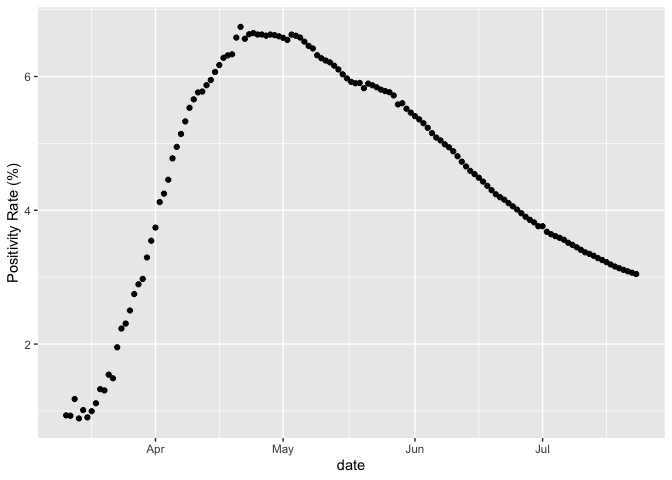
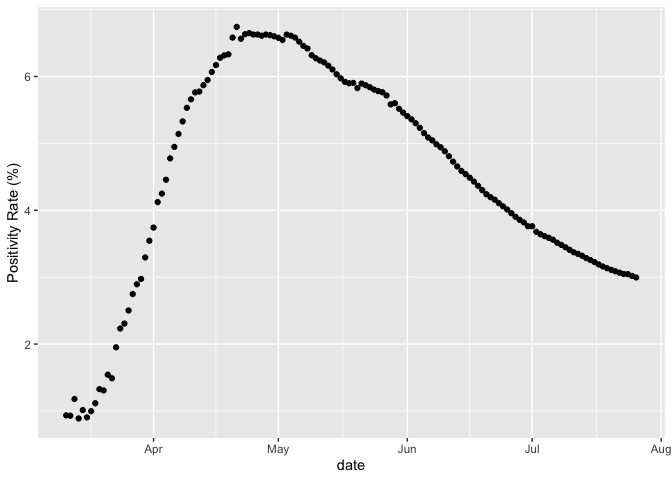
Updates

diff --git a/Writeup.md b/Writeup.md
@@ -17,7 +17,7 @@ direct indicator of testing capacity. The test positivity rate has been
 used as a measure of prevalence for outbreaks that occur in regions with
 limited or non-existent health surveillance.
 
-## Factors that Affect the TPR
+### Factors that Affect the TPR
 
 1.  Type of tests included in metric. Some regions are not transparent
     in the technologies used for COVID-19 tests, or aggregate PCR and
@@ -91,61 +91,61 @@ summary(national)
 ```
 
     ##                        prname         date               numconf      
-    ##  Canada                   :135   Min.   :2020-03-11   Min.   :   103  
-    ##  Alberta                  :  0   1st Qu.:2020-04-13   1st Qu.: 26354  
-    ##  British Columbia         :  0   Median :2020-05-17   Median : 76991  
-    ##  Manitoba                 :  0   Mean   :2020-05-17   Mean   : 64765  
-    ##  New Brunswick            :  0   3rd Qu.:2020-06-19   3rd Qu.:100813  
-    ##  Newfoundland and Labrador:  0   Max.   :2020-07-23   Max.   :112659  
+    ##  Canada                   :138   Min.   :2020-03-11   Min.   :   103  
+    ##  Alberta                  :  0   1st Qu.:2020-04-14   1st Qu.: 27376  
+    ##  British Columbia         :  0   Median :2020-05-18   Median : 78581  
+    ##  Manitoba                 :  0   Mean   :2020-05-18   Mean   : 65826  
+    ##  New Brunswick            :  0   3rd Qu.:2020-06-21   3rd Qu.:101551  
+    ##  Newfoundland and Labrador:  0   Max.   :2020-07-26   Max.   :113898  
     ##  (Other)                  :  0                                        
-    ##     numprob        numdeaths         numtotal        numtested      
-    ##  Min.   :  0.0   Min.   :   2.0   Min.   :   103   Min.   :  11023  
-    ##  1st Qu.: 11.0   1st Qu.: 841.5   1st Qu.: 26372   1st Qu.: 446229  
-    ##  Median : 11.0   Median :5782.0   Median : 77002   Median :1300729  
-    ##  Mean   : 22.2   Mean   :4859.2   Mean   : 64788   Mean   :1456374  
-    ##  3rd Qu.: 12.5   3rd Qu.:8378.0   3rd Qu.:100824   3rd Qu.:2361172  
-    ##  Max.   :833.0   Max.   :8874.0   Max.   :112672   Max.   :3697322  
-    ##                                                                     
-    ##    numrecover    percentrecover       ratetested       numtoday     
-    ##  Min.   :  230   Length:135         Min.   :  293   Min.   :   0.0  
-    ##  1st Qu.:26505   Class :character   1st Qu.:11871   1st Qu.: 363.5  
-    ##  Median :48892   Mode  :character   Median :34604   Median : 722.0  
-    ##  Mean   :46448                      Mean   :38744   Mean   : 834.0  
-    ##  3rd Qu.:65850                      3rd Qu.:62815   3rd Qu.:1252.5  
-    ##  Max.   :98519                      Max.   :98361   Max.   :2760.0  
-    ##  NA's   :28                                                         
-    ##   percentoday       ratetotal        ratedeaths     deathstoday    
-    ##  Min.   : 0.000   Min.   :  0.27   Min.   : 0.01   Min.   :  0.00  
-    ##  1st Qu.: 0.415   1st Qu.: 70.16   1st Qu.: 2.24   1st Qu.: 10.00  
-    ##  Median : 1.500   Median :204.85   Median :15.38   Median : 49.00  
-    ##  Mean   : 5.951   Mean   :172.36   Mean   :12.93   Mean   : 65.72  
-    ##  3rd Qu.: 5.635   3rd Qu.:268.23   3rd Qu.:22.29   3rd Qu.:114.50  
-    ##  Max.   :46.230   Max.   :299.75   Max.   :23.61   Max.   :222.00  
-    ##                                                                    
+    ##     numprob      numdeaths         numtotal        numtested      
+    ##  Min.   :  0   Min.   :   2.0   Min.   :   103   Min.   :  11023  
+    ##  1st Qu.: 11   1st Qu.: 929.8   1st Qu.: 27392   1st Qu.: 458171  
+    ##  Median : 11   Median :5877.0   Median : 78592   Median :1331709  
+    ##  Mean   : 22   Mean   :4946.7   Mean   : 65848   Mean   :1506463  
+    ##  3rd Qu.: 13   3rd Qu.:8434.5   3rd Qu.:101562   3rd Qu.:2436949  
+    ##  Max.   :833   Max.   :8890.0   Max.   :113911   Max.   :3801950  
+    ##                                                                   
+    ##    numrecover    percentrecover       ratetested        numtoday     
+    ##  Min.   :  230   Length:138         Min.   :   293   Min.   :   0.0  
+    ##  1st Qu.:27288   Class :character   1st Qu.: 12189   1st Qu.: 356.2  
+    ##  Median :50048   Mode  :character   Median : 35428   Median : 703.0  
+    ##  Mean   :47884                      Mean   : 40077   Mean   : 824.9  
+    ##  3rd Qu.:66931                      3rd Qu.: 64831   3rd Qu.:1245.8  
+    ##  Max.   :99355                      Max.   :101145   Max.   :2760.0  
+    ##  NA's   :28                                                          
+    ##   percentoday        ratetotal        ratedeaths      deathstoday    
+    ##  Min.   : 0.0000   Min.   :  0.27   Min.   : 0.010   Min.   :  0.00  
+    ##  1st Qu.: 0.4025   1st Qu.: 72.88   1st Qu.: 2.473   1st Qu.:  9.00  
+    ##  Median : 1.4600   Median :209.08   Median :15.635   Median : 46.00  
+    ##  Mean   : 5.8293   Mean   :175.18   Mean   :13.160   Mean   : 64.41  
+    ##  3rd Qu.: 5.3725   3rd Qu.:270.19   3rd Qu.:22.438   3rd Qu.:112.75  
+    ##  Max.   :46.2300   Max.   :303.04   Max.   :23.650   Max.   :222.00  
+    ##                                                                      
     ##   percentdeath    testedtoday    recoveredtoday    percentactive  
     ##  Min.   :0.790   Min.   :    0   Min.   :    0.0   Min.   : 3.78  
-    ##  1st Qu.:3.190   1st Qu.:16768   1st Qu.:  367.5   1st Qu.:28.96  
-    ##  Median :7.480   Median :27304   Median :  680.0   Median :42.43  
-    ##  Mean   :5.882   Mean   :27388   Mean   :  973.1   Mean   :52.71  
-    ##  3rd Qu.:8.170   3rd Qu.:37648   3rd Qu.:  908.0   3rd Qu.:83.67  
+    ##  1st Qu.:3.395   1st Qu.:16830   1st Qu.:  356.5   1st Qu.:28.46  
+    ##  Median :7.500   Median :27622   Median :  678.0   Median :42.08  
+    ##  Mean   :5.924   Mean   :27550   Mean   :  954.1   Mean   :51.67  
+    ##  3rd Qu.:8.168   3rd Qu.:37772   3rd Qu.:  897.5   3rd Qu.:83.03  
     ##  Max.   :8.330   Max.   :78091   Max.   :23853.0   Max.   :99.21  
     ##                                  NA's   :28                       
-    ##    numactive       rateactive    numtotal_last14 numdeaths_last14
-    ##  Min.   :  101   Min.   : 0.27   Min.   : 2715   Min.   :  25.0  
-    ##  1st Qu.:15595   1st Qu.:41.48   1st Qu.: 5199   1st Qu.: 260.2  
-    ##  Median :27784   Median :73.91   Median :12468   Median : 850.0  
-    ##  Mean   :23114   Mean   :61.49   Mean   :12503   Mean   :1011.7  
-    ##  3rd Qu.:31700   3rd Qu.:84.33   3rd Qu.:18799   3rd Qu.:1616.0  
-    ##  Max.   :35001   Max.   :93.11   Max.   :24688   Max.   :2311.0  
+    ##    numactive       rateactive    numtotal_last14 ratetotal_last14
+    ##  Min.   :  101   Min.   : 0.27   Min.   : 2715   Min.   : 7.22   
+    ##  1st Qu.:12770   1st Qu.:33.97   1st Qu.: 5226   1st Qu.:13.90   
+    ##  Median :27702   Median :73.69   Median :11855   Median :31.54   
+    ##  Mean   :22732   Mean   :60.48   Mean   :12352   Mean   :32.86   
+    ##  3rd Qu.:31572   3rd Qu.:83.99   3rd Qu.:18768   3rd Qu.:49.93   
+    ##  Max.   :35001   Max.   :93.11   Max.   :24688   Max.   :65.68   
     ##                                  NA's   :13      NA's   :13      
-    ##       tpr       
-    ##  Min.   :0.888  
-    ##  1st Qu.:3.428  
-    ##  Median :4.776  
-    ##  Mean   :4.557  
-    ##  3rd Qu.:5.912  
-    ##  Max.   :6.742  
-    ## 
+    ##  numdeaths_last14 ratedeaths_last14      tpr       
+    ##  Min.   :  25.0   Min.   :0.070     Min.   :0.888  
+    ##  1st Qu.: 257.0   1st Qu.:0.680     1st Qu.:3.355  
+    ##  Median : 818.0   Median :2.180     Median :4.691  
+    ##  Mean   : 990.1   Mean   :2.634     Mean   :4.523  
+    ##  3rd Qu.:1553.0   3rd Qu.:4.130     3rd Qu.:5.903  
+    ##  Max.   :2311.0   Max.   :6.150     Max.   :6.742  
+    ##  NA's   :13       NA's   :13
 
 ### Canada Test Positivity Rate
 
@@ -153,16 +153,8 @@ summary(national)
 
 ### Canada Testing Rates
 
-![](Writeup_files/figure-gfm/pressure-1.png)<!-- --> \#\#\# Test Rate
-against TPR
-
-``` r
-print(
-  ggplot(national, aes(ratetested, tpr)) + 
-  geom_point() + xlab("Test Rate") + 
-  ylab("Test Positivity Rate") +
-  ggtitle("Test rate against test positivity rate")
-)
-```
-
 ![](Writeup_files/figure-gfm/unnamed-chunk-1-1.png)<!-- -->
+
+### Cumulative Testing Rate against TPR
+
+![](Writeup_files/figure-gfm/unnamed-chunk-2-1.png)<!-- -->
